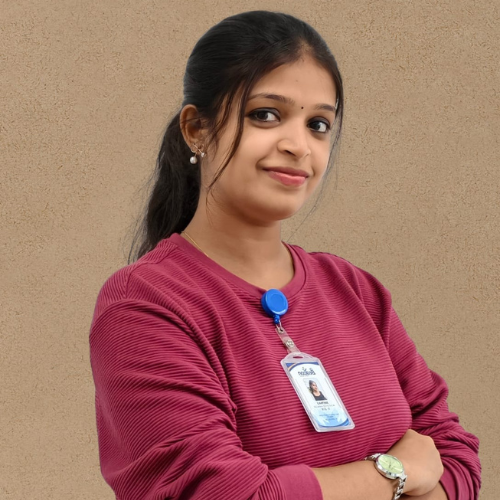
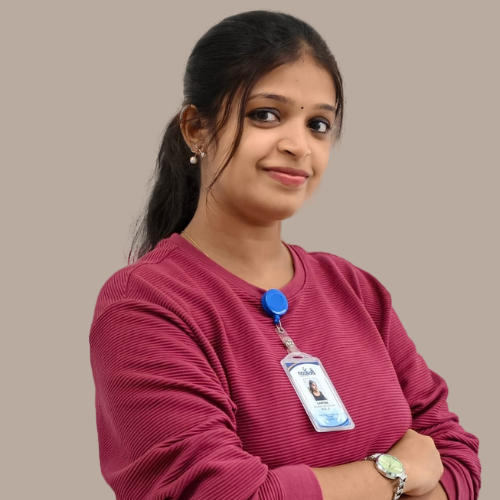
updated

diff --git a/about.html b/about.html
@@ -155,13 +155,17 @@
                         <div class="col-lg-6">
                             <div class="subtitle wow fadeInUp mb-3">Who We Are</div>
                             <h2 class="wow fadeInUp">De Beacon – Lighting the Path to Growth and Happiness</h2>
-                            <p class="wow fadeInUp" style="text-align: justify;">
+                            <p class="wow fadeInUp" style="text-align: justify;hyphens: auto;
+  -webkit-hyphens: auto;
+  -ms-hyphens: auto;">
                                 De Beacon stands for light, hope, and guidance—and that is exactly what we offer to
                                 every learner and family who comes to us. We are a dedicated support and development
                                 center helping children, adolescents, and individuals grow academically, emotionally,
                                 and personally.</p>
 
-                            <p class="wow fadeInUp" style="text-align: justify;">By combining one-to-one remedial
+                            <p class="wow fadeInUp" style="text-align: justify;hyphens: auto;
+  -webkit-hyphens: auto;
+  -ms-hyphens: auto;">By combining one-to-one remedial
                                 coaching, mentoring, counselling,
                                 and guided learning,
                                 we ensure each person receives the support they need to move forward. We focus on
@@ -193,7 +197,9 @@
                         <div class="col-lg-12">
                             <!-- <div class="subtitle wow fadeInUp mb-3">Who We Are</div> -->
                             <h2 class="wow fadeInUp" style="text-align: center;">The Story of De Beacon</h2>
-                            <p class="wow fadeInUp" style="text-align: justify;">
+                            <p class="wow fadeInUp" style="text-align: justify; hyphens: auto;
+  -webkit-hyphens: auto;
+  -ms-hyphens: auto;">
                                 In a town where friendship and shared purpose run deep, three friends — Dr. Mohamed
                                 Anas, Mr.Kunjoy and Mr. Jamal shareef — nurtured a dream for over a decade : to create
                                 opportunities for every student and community to thrive. For decades, they had been
@@ -209,7 +215,9 @@
                                 and Guidance, India), and FACE — which runs FACE Public School in Calicut, focusing on
                                 holistic development and skill-based education.</p>
 
-                            <p class="wow fadeInUp" style="text-align: justify;">Their vision had been discussed for
+                            <p class="wow fadeInUp" style="text-align: justify;hyphens: auto;
+  -webkit-hyphens: auto;
+  -ms-hyphens: auto;">Their vision had been discussed for
                                 many years, but it began taking shape in the early months of 2025. Sitting together in
                                 long, thoughtful conversations, they realized that their shared passion and
                                 complementary experiences could be combined to create something unique — a place where
@@ -218,18 +226,24 @@
                                 the seed that would grow into De Beacon, a center committed to nurturing the ‘Stars of
                                 Tomorrow.’</p>
 
-                            <p class="wow fadeInUp" style="text-align: justify;">De Beacon provide more than what
+                            <p class="wow fadeInUp" style="text-align: justify;hyphens: auto;
+  -webkit-hyphens: auto;
+  -ms-hyphens: auto;">De Beacon provide more than what
                                 schools typically offer — specialized skills, creative training, cognitive development,
                                 and programs that nurture multiple intelligences. Our mission is to empower students
                                 with holistic education, practical skills, and the confidence to explore and realize
                                 their true potential.</p>
 
-                            <p class="wow fadeInUp" style="text-align: justify;">At De Beacon, the mission is simple yet
+                            <p class="wow fadeInUp" style="text-align: justify;hyphens: auto;
+  -webkit-hyphens: auto;
+  -ms-hyphens: auto;">At De Beacon, the mission is simple yet
                                 powerful: to shape well-rounded, confident, and capable individuals who are ready to
                                 make a meaningful impact on the world. Here, every student is seen, heard, and guided —
                                 a journey toward becoming the ‘Stars of Tomorrow.’”</p>
                             <div class="spacer-60"></div>
-                            <h2 class="wow fadeInUp" style="text-align: center;">The Faces of De Beacon</h2>
+                            <h2 class="wow fadeInUp" style="text-align: center;hyphens: auto;
+  -webkit-hyphens: auto;
+  -ms-hyphens: auto;">The Faces of De Beacon</h2>
                             <div class="row g-4">
                                 <div class="col-lg-4 col-sm-6 wow fadeInUp mb-4">
                                     <img src="images/team/1.jpg" class="img-fluid rounded-10px" alt="">

diff --git a/remedial-coaching.html b/remedial-coaching.html
@@ -153,22 +153,29 @@
             <!-- section close -->
 
 
-            <section>
+            <section class="remedial-section">
                 <div class="container">
                     <div class="row g-4 gx-5 align-items-center">
 
                         <div class="col-lg-8">
                             <h2 class="wow fadeInUp">Expert Remedial Coaching & Personalized Mentoring</h2>
                             <h4><b>A Light for Happiness in Learning</b></h4>
-                            <p class="wow fadeInUp" style="text-align: justify;">
+                            <p class="wow fadeInUp" style="text-align: justify;hyphens: auto;
+  -webkit-hyphens: auto;
+  -ms-hyphens: auto;">
                                 Empowering children, families, and individuals through personalized support and guided
-                                learning. At De Beacon, we believe every child can shine. <b>Let’s identify learning
+                                learning. At De Beacon, we believe every child can shine. <b style="hyphens: auto;
+  -webkit-hyphens: auto;
+  -ms-hyphens: auto;">Let’s identify learning
                                     challenges
                                     early and rebuild our children’s confidence</b>.
                             </p>
 
                             <h3 class="wow fadeInUp">Understanding the Need for Remedial Support </h3>
-                            <p class="wow fadeInUp" style="text-align: justify;">Every child learns differently, and
+                            <p class="wow fadeInUp" style="text-align: justify;
+                            hyphens: auto;
+  -webkit-hyphens: auto;
+  -ms-hyphens: auto;">Every child learns differently, and
                                 academic difficulties do not
                                 reflect a child’s intelligence or potential. Many children face learning gaps, attention
                                 challenges, or emotional barriers that regular classroom teaching or conventional
@@ -180,7 +187,7 @@
                                 towards learning.
                             </p>
 
-                            <h3 class="wow fadeInUp"> Key Focus Areas:</h3>
+                            <h3 class="wow fadeInUp remedial-key-focus"> Key Focus Areas:</h3>
                             <ul class="wow fadeInUp">
                                 <li><b>Language-Based Difficulties:</b> Addressing challenges in reading, writing, and
                                     comprehension across English, Malayalam, Arabic, and Hindi. </li><br>
@@ -199,7 +206,10 @@
                             <p class="wow fadeInUp">We follow a structured and child-centered approach to ensure
                                 meaningful, measurable, and long-lasting improvement in every child’s learning journey.
                             </p>
-                            <ol type="1" class="wow fadeInUp" style="text-align: justify;">
+                            <ol type="1" class="wow fadeInUp" style="text-align: justify;
+                            hyphens: auto;
+  -webkit-hyphens: auto;
+  -ms-hyphens: auto;">
                                 <li><b> Psychological Assessment: </b> A comprehensive assessment to accurately
                                     understand
                                     the child’s learning needs, strengths, and challenges, helping us identify the root
@@ -218,7 +228,7 @@
                             <h3 class="wow fadeInUp">Our Programs</h3>
                             <p class="wow fadeInUp">De Beacon offers flexible and long-term support tailored to your
                                 child’s needs: </p>
-                            <table class="wow fadeInUp">
+                            <table class="wow fadeInUp remedial-table">
                                 <tr>
                                     <th>Program</th>
                                     <th>Focus</th>

diff --git a/css/style.css b/css/style.css
@@ -5486,6 +5486,7 @@ ol.ol-style-1 li {
   font-weight: 500;
   margin-bottom: 20px;
   font-size: 18px;
+
 }
 
 ol.ol-style-1 li::before {
@@ -19991,11 +19992,11 @@ td {
 }
 
 .ytShortsCarousel-modal-content {
- position: relative;
+  position: relative;
   width: 90%;
   max-width: 450px;
   height: 80vh;
-  background: transparent; 
+  background: transparent;
   border-radius: 12px;
   overflow: visible;
   /* box-shadow: 0 0 25px rgba(0, 0, 0, 0.6); */
@@ -20013,7 +20014,7 @@ td {
 
 .ytShortsCarousel-close {
   position: absolute;
-   top: -20px;   
+  top: -20px;
   right: 34px;
   background: rgba(255, 255, 255, 0.3);
   border: none;
@@ -20043,7 +20044,7 @@ td {
 
 
 .remedial-img {
-  width: 120%;
+  /* width: 120%; */
   /* make image bigger */
   max-width: none;
   /* allow oversizing */
@@ -20060,42 +20061,92 @@ td {
 .remedial-img {
   top: 0px;
 }
+/* Reference container */
+.remedial-section {
+    position: relative;
+}
 
+/* Desktop: move image to top-right */
+@media (min-width: 992px) {
+    .remedial-img {
+        position: absolute;
+        top: 100px;
+        right: 10%;
+        width: 400px;
+    }
+}
+
+@media(max-width:768px){
+  .remedial-img{
+    width:300px
+  }
+}
 .terms-section {
   padding-top: 20px !important;
   padding-bottom: 40px !important;
 }
+
 /* THANK YOU PAGE – SCOPED */
 .thankyou-page {
-    min-height: 60vh;
-    display: flex;
-    align-items: center;
+  min-height: 60vh;
+  display: flex;
+  align-items: center;
 }
 
 .thankyou-page .thankyou-wrapper {
-    text-align: center;
-    max-width: 600px;
-    margin: 0 auto;
-    padding: 60px 20px;
+  text-align: center;
+  max-width: 600px;
+  margin: 0 auto;
+  padding: 60px 20px;
 }
 
 .thankyou-page .thankyou-logo {
-    max-width: 180px;
-    margin-bottom: 30px;
+  max-width: 180px;
+  margin-bottom: 30px;
 }
 
 .thankyou-page h1 {
-    color: #0b3c8a;
-    margin-bottom: 15px;
-    font-weight: 700;
+  color: #0b3c8a;
+  margin-bottom: 15px;
+  font-weight: 700;
 }
 
 .thankyou-page p {
-    font-size: 16px;
-    color: #444;
-    margin-bottom: 30px;
+  font-size: 16px;
+  color: #444;
+  margin-bottom: 30px;
 }
 
 .thankyou-page .thankyou-btn {
-    padding: 12px 28px;
+  padding: 12px 28px;
+}
+
+@media (max-width: 768px) {
+  ol.ol-style-1 li {
+    font-weight: 500;
+    margin-bottom: 20px;
+    font-size: 18px;
+    text-align: left;
+    list-style-position: inside;
+    hyphens: auto;
+    -webkit-hyphens: auto;
+    -ms-hyphens: auto;
+  }
+
+}
+
+@media (max-width: 360px) {
+  .remedial-table tr {
+    margin-bottom: 12px;
+  }
+
+  .remedial-table td {
+    padding: 8px;
+    font-size: 14px;
+    word-break: break-word;
+  }
+
+  .remedial-table td::before {
+    font-size: 13px;
+  }
 }

diff --git a/index.html b/index.html
@@ -500,7 +500,7 @@
                                     <div class="col-6">
                                         <!-- <div class="spacer-single sm-hide"></div> -->
                                         <img src="images/homepage-grid-lg.png" alt="" class="lg-img wow fadeInUp">
-                                        <img src="images/homepage-grid.png" alt="" class="sm-img wow fadeInUp">
+                                        <img src="images/homepage-grid-sm.png" alt="" class="sm-img wow fadeInUp">
 
                                         <!-- <img src="images/gallery/1.png"
                                             class="img-fluid rounded-10px mb-4 w-70 ms-30 wow fadeInLeft"
@@ -523,7 +523,7 @@
                         <div class="col-lg-6">
                             <div class="subtitle wow fadeInUp mb-3">Welcome</div>
                             <h2 class="wow fadeInUp">Where Every Step <span
-                                    class="d-block mt-2 alt-font fw-500 fs-72 id-color-2">Finds Light</span></h2>
+                                    class="d-block mt-2 alt-font fw-500 fs-72 id-color-2">Finds<span class=" d-block d-sm-inline mt-4"> Light</span></h2>
                             <p class="wow fadeInUp" style="text-align: justify;">At De Beacon, we guide children,
                                 families, and individuals toward
                                 learning, confidence, and emotional well-being—just like a beacon of light showing the
